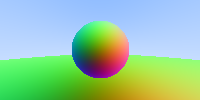
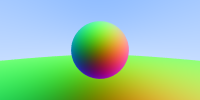
anti-aliasing

diff --git a/src/main.rs b/src/main.rs
@@ -110,6 +110,7 @@ fn color(r: &Ray, world: &Hittable) -> Vec3 {
 fn main() {
     let nx = 200;
     let ny = 100;
+    let num_samples_per_pixel = 100;
     let lower_left_corner = Vec3(-2.0, -1.0, -1.0);
     let horizontal = Vec3(4.0, 0.0, 0.0);
     let vertical = Vec3(0.0, 2.0, 0.0);
@@ -130,13 +131,17 @@ fn main() {
     let mut img_data = Vec::new();
     for j in (0..ny).rev() {
         for i in 0..nx {
-            let u = (i as f64) / (nx as f64);
-            let v = (j as f64) / (ny as f64);
-            let r = Ray {
-                a: origin,
-                b: lower_left_corner + u * horizontal + v * vertical,
-            };
-            let col = color(&r, &world);
+            let mut col = Vec3(0., 0., 0.);
+            for k in 0..num_samples_per_pixel {
+                let u = ((i as f64) + rand::random::<f64>()) / (nx as f64);
+                let v = ((j as f64) + rand::random::<f64>()) / (ny as f64);
+                let r = Ray {
+                    a: origin,
+                    b: lower_left_corner + u * horizontal + v * vertical,
+                };
+                col = col + color(&r, &world);
+            }
+            col = col / (num_samples_per_pixel as f64);
             let ir = (255.99 * col.r()) as u8;
             let ig = (255.99 * col.g()) as u8;
             let ib = (255.99 * col.b()) as u8;
